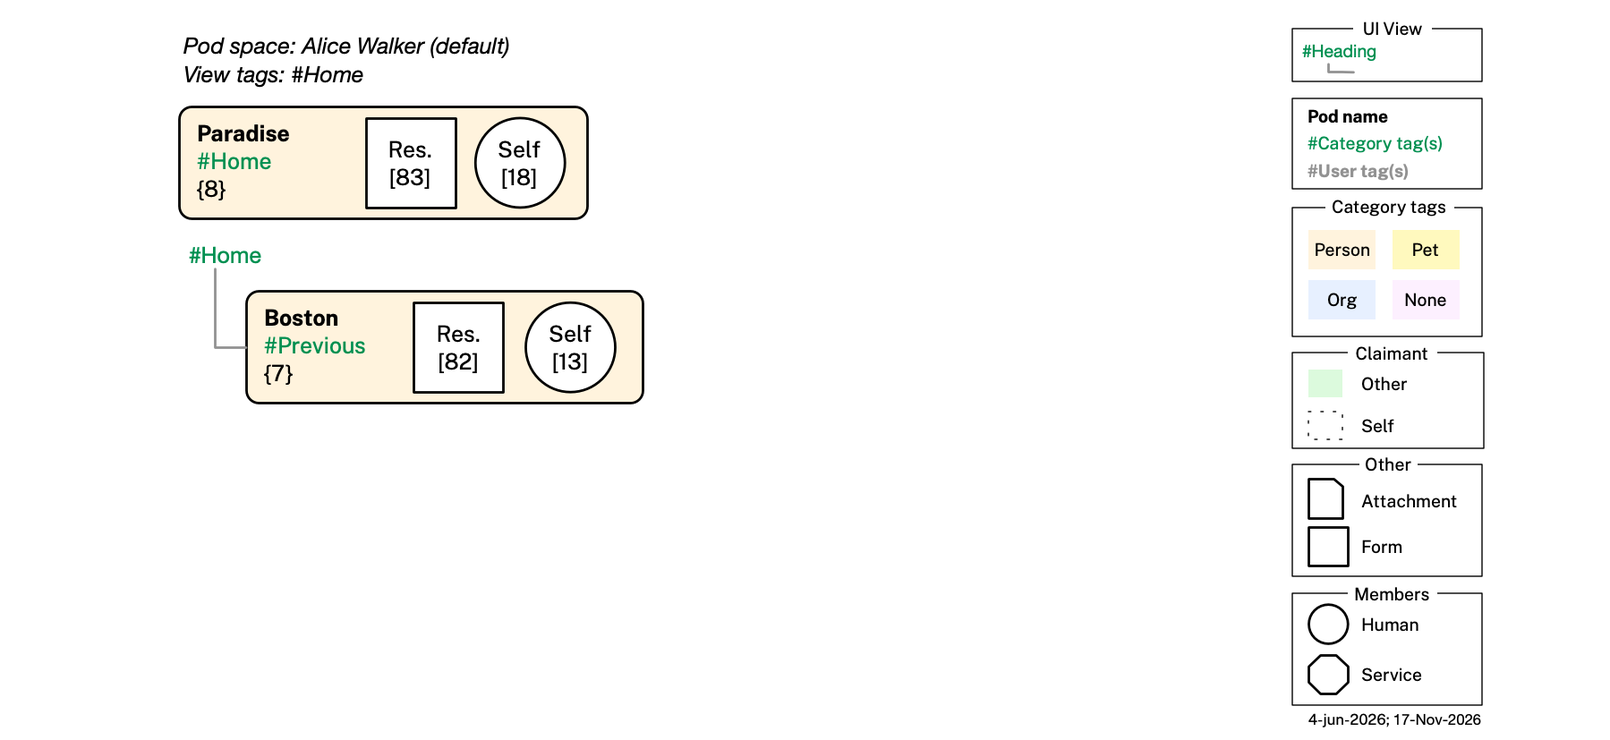
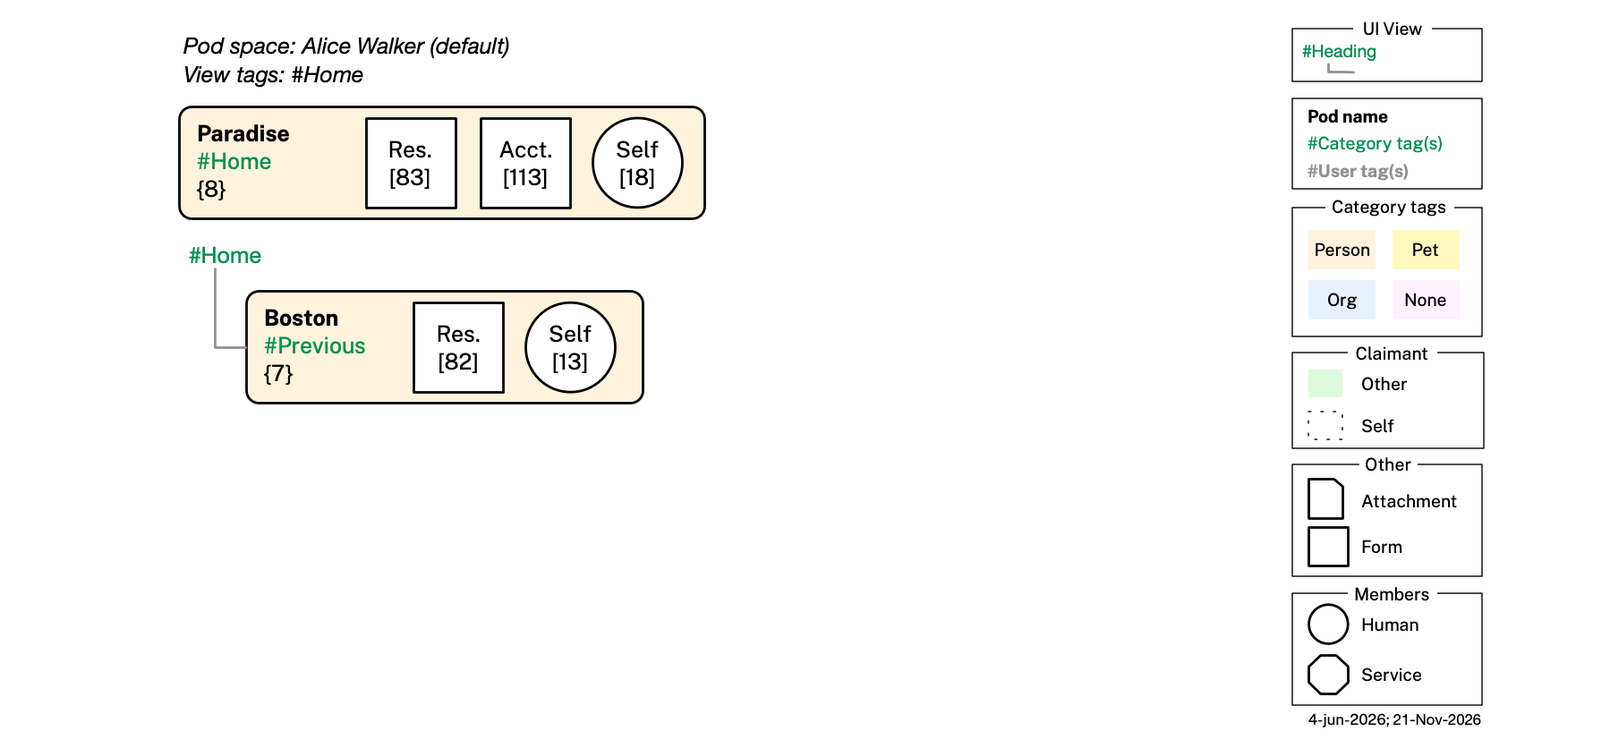
Add a second form to the Paradise pod; let TTL-4 skip hand-added tools
The Paradise pod gains a Service Account form Alice added by hand beside
the Residence form podcat:Home declares: graph 113, her PG&E utility
account, topic :Alice_PGE_Account. It is the example's first pod with
more than one form, and its derived subject is both topics together.

TTL-4 rejected it: on a pod whose template declares a tool, it held
every tool graph to the declared pod:formShape values. It now checks
only the declared tool (the one carrying a declared shape) and leaves
hand-added tools alone, as README and TTL-5 already said; a declared
tool with a wrong shape still surfaces as missing under TTL-5.

Documents graph 113 in example.md and CLAUDE.md, draws its diagram,
adds the Acct. [113] square to home.png, and updates YAML-4's note.
SKIP_DRAW because graphs 18 and 83 are unchanged; graph 113 was drawn
explicitly.

Changed region(s): [[0.2802, 0.1209, 0.4358, 0.3023]]

diff --git a/integrity.md b/integrity.md
@@ -754,7 +754,7 @@ print('All shape-declaring graphs assert a matching rdf:type.'
 
 If a violation is found: fix whichever side is wrong — either the `shape:` YAML value (if the graph's own asserted `rdf:type` is correct and `template:` names the wrong shape), or the body's `rdf:type` (if `template:` reflects the intended classification and the body was never updated to match).
 
-**TTL-4 — a `member` graph's `shape:` value, and a declared tool's graph's, must be among the shapes its category tags' templates declare**: TTL-3 only compares a graph's `shape:` value against its own body content — this check goes one level higher, comparing it against what the pod's category tags declare as authoritative. For every pod-databook under `example/pods/` (excluding `under-development/`), `tpod.categoryTag` is read as a list (zero or more values), and each tag is looked up by the reverse lookup `?tc pod:category X` (README's Lazy Instantiation pattern) among the `pod:TemplatePod` individuals of `pod-category-templates.ttl` and every category extension bundle under `pod-category-ext/`. A pod carrying no category tag is looked up instead against `ctpl:UserDefinedTemplatePod`, the one template carrying no `pod:category`, which is what such a pod takes its member baseline from. The templates reached are pooled: every `tpod.member`-list graph carrying a `shape:` value must have that value among the union of their `pod:memberShape` values; and, **only when at least one of them declares a tool**, every tool graph carrying a `shape:` value must be among the union of their declared tools' `pod:formShape` values — direct CURIE-set membership, since `pod:shape`'s range is `sh:NodeShape` (`pod.ttl`), the same range `pod:memberShape`/`pod:formShape` already carry, so no `sh:targetClass` resolution and no named exemptions are needed. A tool on a pod none of whose templates declares one is **not** checked against any shape at all: any pod may gain a tool no template declared, and the user picks that tool's shape themselves — from the app's full list of shapes — so no template has authority over it. A tag whose concept has no template contributes nothing — a defensive branch, not a live case, since TTL-6 and TTL-8's 39d guarantee every concept has one. This is not itself an OWL/SHACL-expressible constraint (same reasoning as YAML-4/YAML-6/YAML-7/YAML-8/TTL-3 — it requires dereferencing values across the template files, not just pod-databook YAML), so it's checked here instead. Run:
+**TTL-4 — a `member` graph's `shape:` value, and a declared tool's graph's, must be among the shapes its category tags' templates declare**: TTL-3 only compares a graph's `shape:` value against its own body content — this check goes one level higher, comparing it against what the pod's category tags declare as authoritative. For every pod-databook under `example/pods/` (excluding `under-development/`), `tpod.categoryTag` is read as a list (zero or more values), and each tag is looked up by the reverse lookup `?tc pod:category X` (README's Lazy Instantiation pattern) among the `pod:TemplatePod` individuals of `pod-category-templates.ttl` and every category extension bundle under `pod-category-ext/`. A pod carrying no category tag is looked up instead against `ctpl:UserDefinedTemplatePod`, the one template carrying no `pod:category`, which is what such a pod takes its member baseline from. The templates reached are pooled: every `tpod.member`-list graph carrying a `shape:` value must have that value among the union of their `pod:memberShape` values; and, for each tool that is **the declared one** — on a pod at least one of whose templates declares a tool, a tool any of whose graphs carries one of their declared tools' `pod:formShape` values — every graph beneath it carrying a `shape:` value must be among the union of those `pod:formShape` values — direct CURIE-set membership, since `pod:shape`'s range is `sh:NodeShape` (`pod.ttl`), the same range `pod:memberShape`/`pod:formShape` already carry, so no `sh:targetClass` resolution and no named exemptions are needed. Any other tool is one the user added by hand, and is **not** checked against any shape at all: any pod may gain tools no template declared, as many as the user likes, and the user picks each one's shape themselves — from the app's full list of shapes — so no template has authority over it. That covers both a tool on a pod none of whose templates declares one and a further tool beside the declared one (`Paradise.databook.md`'s Service Account form, beside the Residence form `podcat:Home` declares). A declared tool whose every graph carries a wrong shape is therefore read as hand-added and passes here, but then the declared tool is missing from the pod, which TTL-5 reports. A tag whose concept has no template contributes nothing — a defensive branch, not a live case, since TTL-6 and TTL-8's 39d guarantee every concept has one. This is not itself an OWL/SHACL-expressible constraint (same reasoning as YAML-4/YAML-6/YAML-7/YAML-8/TTL-3 — it requires dereferencing values across the template files, not just pod-databook YAML), so it's checked here instead. Run:
 
 ```python
 import glob, re, yaml
@@ -823,17 +823,23 @@ for path in sorted(glob.glob('example/pods/**/*.databook.md', recursive=True)):
     }
     declares_tool = any(r['declares_tool'] for r in reached)
 
+    def graphs(tool):
+        return [g for g in as_list(tool.get('graph')) if isinstance(g, dict)]
+
     def entries_for(field):
         if field == 'member':
             return [e for e in as_list(tpod.get('member')) if isinstance(e, dict)]
+        # Only the declared tool is checked: the one any of whose graphs carries
+        # a declared pod:formShape. Every other tool was added by hand — on a pod
+        # none of whose templates declares one, or beside the declared one — and
+        # the user picks its shape freely, so no template has a say.
+        if not declares_tool:
+            return []
         return [g for t in as_list(tpod.get('tool')) if isinstance(t, dict)
-                  for g in as_list(t.get('graph')) if isinstance(g, dict)]
+                  if any(sh in allowed['tool'] for g in graphs(t) for sh in as_list(g.get('shape')))
+                  for g in graphs(t)]
 
     for field in ('member', 'tool'):
-        # A tool on a pod none of whose templates declares one was added by
-        # hand — the user picks its shape freely, so no template has a say.
-        if field == 'tool' and not declares_tool:
-            continue
         prop = 'memberShape' if field == 'member' else 'formShape'
         for entry in entries_for(field):
             gid = entry.get('id')
@@ -1327,7 +1333,7 @@ If a malformed id is found, fix it to match the pattern. If a duplicate `<NN>` i
 
 Note: this check's `^id:\s*(\S+)` regex is anchored at true line-start with no leading whitespace, so it only ever matches a file's own top-level `id:` line — a nested, indented `tpod.member[]`/`tpod.tool[].graph[].id` value never matches this anchor and is intentionally out of scope here (a graph's `id` is not expected to relate to its owning pod file's name at all; see YAML-1 for that). This imposes a requirement on any script that writes `tpod.member`/`tpod.tool`: never emit an unindented `id:` at column 0.
 
-**YAML-4 — a pod's subject is derived from its tools plus `member`, never stored**: There is no independently-asserted pod-level subject property (nor a pod-level `tpod.subject` field — the `subject:` key sits inside each `tpod.member` entry, naming that member) — who or what a pod's relationship is about is computed, not stored, by a simple two-branch rule. The two branches read properties at *different levels*, since a tool states its topic once for all the graphs beneath it while a member entry carries its own subject directly (`pod.ttl`): a `member` entry is a `pod:MemberGraph` carrying `pod:subject`, while a tool's graphs are `pod:FormGraph`s carrying no about-ness of their own, the tool's single `pod:formTopic` standing for all of them. **If the pod has any form tools**, the full set of distinct `pod:formTopic` values among them is the pod's subject (e.g. `Appointment.databook.md`, a two-member pod: `member` holds Dave's and Self's graphs, and its one form tool is about Sophia — subject is `:Sophia_Walker`); **otherwise** the subject is the full set of distinct `pod:subject` values among `member` — the pod's own active members (e.g. `Bob Johnson.databook.md`, a two-member pod with no tool but its note: subject is `:Self` and `:Bob_Johnson` together; `Fred Flintstone.databook.md`, likewise: `:Self` and `:Fred_Flintstone` together). `Boston Hub Society.databook.md` shows the first branch taking over from the second: as a three-member pod it would derive `:BHS_Service`, `:Bob_Johnson`, and `:Self` together, but its one manually-added form tool — BHS's own organizational profile, claimed by BHS — narrows the derived subject to `:BHS` alone. Every real example pod carries at most one form tool, but the rule and this check both generalize to any number, a pod being free to hold as many tools as it likes. A tool's topic is explicitly **allowed** to duplicate a `member` subject — this is the normal shape for every template-declared form tool whose pod's `pod:member` content is just the generic `ContactInfoShape` contact-info stub (claimed by and about `:Self`) while the pod's real content lives in the tool, also about `:Self` (e.g. `Google.databook.md`, `SSN.databook.md`, `Paradise.databook.md`): the stub `member` isn't a distinct party the derived subject needs to separately surface, so the derivation switching to the tool set alone (ignoring `member`) is intended, not a masking bug. This check therefore only reports each pod's derived subject for reference — it does not flag member/tool subject overlap as a violation. Run:
+**YAML-4 — a pod's subject is derived from its tools plus `member`, never stored**: There is no independently-asserted pod-level subject property (nor a pod-level `tpod.subject` field — the `subject:` key sits inside each `tpod.member` entry, naming that member) — who or what a pod's relationship is about is computed, not stored, by a simple two-branch rule. The two branches read properties at *different levels*, since a tool states its topic once for all the graphs beneath it while a member entry carries its own subject directly (`pod.ttl`): a `member` entry is a `pod:MemberGraph` carrying `pod:subject`, while a tool's graphs are `pod:FormGraph`s carrying no about-ness of their own, the tool's single `pod:formTopic` standing for all of them. **If the pod has any form tools**, the full set of distinct `pod:formTopic` values among them is the pod's subject (e.g. `Appointment.databook.md`, a two-member pod: `member` holds Dave's and Self's graphs, and its one form tool is about Sophia — subject is `:Sophia_Walker`); **otherwise** the subject is the full set of distinct `pod:subject` values among `member` — the pod's own active members (e.g. `Bob Johnson.databook.md`, a two-member pod with no tool but its note: subject is `:Self` and `:Bob_Johnson` together; `Fred Flintstone.databook.md`, likewise: `:Self` and `:Fred_Flintstone` together). `Boston Hub Society.databook.md` shows the first branch taking over from the second: as a three-member pod it would derive `:BHS_Service`, `:Bob_Johnson`, and `:Self` together, but its one manually-added form tool — BHS's own organizational profile, claimed by BHS — narrows the derived subject to `:BHS` alone. `Paradise.databook.md` carries two form tools — its Residence form, about `:Self`, and a Service Account form added by hand, about `:Alice_PGE_Account` — so its derived subject is both topics together; the rule and this check generalize to any number, a pod being free to hold as many tools as it likes. A tool's topic is explicitly **allowed** to duplicate a `member` subject — this is the normal shape for every template-declared form tool whose pod's `pod:member` content is just the generic `ContactInfoShape` contact-info stub (claimed by and about `:Self`) while the pod's real content lives in the tool, also about `:Self` (e.g. `Google.databook.md`, `SSN.databook.md`, `Paradise.databook.md`): the stub `member` isn't a distinct party the derived subject needs to separately surface, so the derivation switching to the tool set alone (ignoring `member`) is intended, not a masking bug. This check therefore only reports each pod's derived subject for reference — it does not flag member/tool subject overlap as a violation. Run:
 
 ```python
 import re, yaml, glob

diff --git a/example.md b/example.md
@@ -147,6 +147,8 @@ Alice has a Social Security number (SSN) issued to her by the Social Security Ad
 
 Alice lived in Boston until August 2025 and now lives in Paradise, CA. Her *Paradise* pod is tagged `podcat:Home`, and her *Boston* pod `podcat:Previous`, a concept narrower than `podcat:Home`, so a search for `podcat:Home` finds both. Boston was tagged `podcat:Home` while she lived there, and adding that tag gave the pod the `residences:Residence` form tool `podcat:Home`'s template declares (see app-behavior.md's [Lazy Instantiation](app-behavior.md#lazy-instantiation)). When she moved she changed the tag to `podcat:Previous`, whose template declares no tool, and the pod kept its tool, since changing a tag never removes one. Both pods carry a form tool: each `pod:member` entry ([graph 13](<example/pods/Alice Walker (default)/Boston/Boston.databook.md#graph-13>), [graph 18](<example/pods/Alice Walker (default)/Paradise/Paradise.databook.md#graph-18>)) is the usual bare given-name stub, and each tool graph carries the actual `residences:Residence` — Boston's in [graph 82](<example/pods/Alice Walker (default)/Boston/Boston.databook.md#graph-82>), Paradise's in [graph 83](<example/pods/Alice Walker (default)/Paradise/Paradise.databook.md#graph-83>).
 
+The *Paradise* pod also carries a second form, the example's one pod with more than one. When Alice set up her gas and electric service in Paradise, she kept her PG&E account in the pod for the home it serves rather than in a pod of its own: she selected the pod, tapped **Add Tool**, and picked the Service Account form type, though `podcat:Home`'s template declares only the Residence form (see app-behavior.md's [Adding a Tool](app-behavior.md#adding-a-tool)). Its one graph ([graph 113](<example/pods/Alice Walker (default)/Paradise/Paradise.databook.md#graph-113>)) holds the account — service name, username, service URI and password — typed `sa:ServiceAccount` like her *Google* and *ATT* accounts. The two forms have different topics, the residence being about Alice herself and the new form about `:Alice_PGE_Account`, so the pod's derived subject is both together.
+
 <p align="center"><img src="example/images/home.png" alt="Home pods"></p>
 
 ### Possessions (Things)
@@ -276,7 +278,7 @@ A summary of all thirty-three pods under `example/pods/`, grouped by the subsect
 | Passport and Social Security Number | Passport | [Passport.databook.md](<example/pods/Alice Walker (default)/Passport/Passport.databook.md>) {5} | Self | `podcat:Passport` | — | — | 19, 81 |
 | Passport and Social Security Number | SSN | [SSN.databook.md](<example/pods/Alice Walker (default)/SSN/SSN.databook.md>) {6} | Self | `podcat:SSN` | — | — | 23, 80 |
 | Current and Previous Homes | Boston | [Boston.databook.md](<example/pods/Alice Walker (default)/Boston/Boston.databook.md>) {7} | Self | `podcat:Previous` | — | — | 13, 82 |
-| Current and Previous Homes | Paradise | [Paradise.databook.md](<example/pods/Alice Walker (default)/Paradise/Paradise.databook.md>) {8} | Self | `podcat:Home` | — | — | 18, 83 |
+| Current and Previous Homes | Paradise | [Paradise.databook.md](<example/pods/Alice Walker (default)/Paradise/Paradise.databook.md>) {8} | Self, Alice's PG&E Account | `podcat:Home` | — | — | 18, 83, 113 |
 | Possessions (Things) | Things | [Things.databook.md](<example/pods/Alice Walker (default)/Things/Things.databook.md>) {11} | Self | `podcat:Things` | — | — | 22 |
 | Pod Spaces | Marcus Bell | [Marcus Bell.databook.md](<example/pods/Alice Walker (default)/Marcus Bell/Marcus Bell.databook.md>) {56} | Marcus Bell | `podcat:PrimaryCarePhysician` | — | — | 109, 110 |
 | Pod Spaces | Ruth Alvarez | [Ruth Alvarez.databook.md](<example/pods/Paula Walker/Ruth Alvarez/Ruth Alvarez.databook.md>) {57} | Ruth Alvarez | `podcat:PrimaryCarePhysician` | Paula Walker | — | 111, 112 |
@@ -343,7 +345,7 @@ The following table lists graphs that are *about* Alice but claimed by others.
 | 8  | [Bob Johnson.databook.md](<example/pods/Alice Walker (default)/Bob Johnson/Bob Johnson.databook.md#graph-08>) {16}                         | `podcat:Others`            | Alice as seen by Bob                 | [view](example/graphs/images/graph-08.png)|
 | 76 | [Citibank.databook.md](<example/pods/Alice Walker (default)/Citibank/Citibank.databook.md#graph-76>) {4} | `podcat:BankingPayments` | Citibank's own claimed record about Alice, transmitted from its PDN node — VISA debit card, linked checking account, and online service account; claimed by `:Citibank`, the organization, not by the `s:ServiceProvider` that carries its membership | [view](example/graphs/images/graph-76.png) |
 
-The following table lists graphs about anyone or anything else in Alice's pods: other people (Sophia, Dave, Paula, Bob, Fred, Jane, Marcy, and Henry), organizations (the Boston Hub Society, the Chestnut Hill Village Association, Acme, and Citibank), services (Arca's backup service, and the PRIVO and Facenook websites), and things (Ginger, her car, her online accounts, and the Kyoto trip). As above, each "Pod DataBook" link jumps to that graph's section inside its owning pod-databook file.
+The following table lists graphs about anyone or anything else in Alice's pods: other people (Sophia, Dave, Paula, Bob, Fred, Jane, Marcy, and Henry), organizations (the Boston Hub Society, the Chestnut Hill Village Association, Acme, and Citibank), services (Arca's backup service, and the PRIVO and Facenook websites), and things (Ginger, her car, her online and utility accounts, and the Kyoto trip). As above, each "Pod DataBook" link jumps to that graph's section inside its owning pod-databook file.
 
 | #  | Pod DataBook                                                                                     | Category Tag | Key data                                                         | Diagram |
 |--- |:-------------------------------------------------------------------------------------------------|:-------------|:-----------------------------------------------------------------|:--------|
@@ -386,6 +388,7 @@ The following table lists graphs about anyone or anything else in Alice's pods: 
 | 108 | [Honda.databook.md](<example/pods/Paula Walker/Honda/Honda.databook.md#graph-108>) {55} | `podcat:Vehicles` | Alice's record of her mother Paula's car — a 2015 Honda Fit, typed `v:Vehicle`; the pod's form-tool graph, `formTopic: ":Paula_Honda"`, in Alice's pod space for Paula | [view](example/graphs/images/graph-108.png) |
 | 110 | [Marcus Bell.databook.md](<example/pods/Alice Walker (default)/Marcus Bell/Marcus Bell.databook.md#graph-110>) {56} | `podcat:PrimaryCarePhysician` | Alice's record of Dr. Marcus Bell, her own primary care physician — name and specialty (Internal Medicine); the pod's form-tool graph, in her default space | [view](example/graphs/images/graph-110.png) |
 | 112 | [Ruth Alvarez.databook.md](<example/pods/Paula Walker/Ruth Alvarez/Ruth Alvarez.databook.md#graph-112>) {57} | `podcat:PrimaryCarePhysician` | Alice's record of Dr. Ruth Alvarez, her mother Paula's primary care physician — name and specialty (Geriatrics); the pod's form-tool graph, in her space for Paula | [view](example/graphs/images/graph-112.png) |
+| 113 | [Paradise.databook.md](<example/pods/Alice Walker (default)/Paradise/Paradise.databook.md#graph-113>) {8} | `podcat:Home` | Alice's basic claim about her PG&E utility account — service name, username, service URI, and password, typed `sa:ServiceAccount`; the pod's second form tool, added by hand beside the Residence form `podcat:Home` declares, its `formTopic: ":Alice_PGE_Account"` joining `:Self` in the pod's derived subject | [view](example/graphs/images/graph-113.png) |
 
 ## Diagrams
 

diff --git a/example/pods/Alice Walker (default)/Paradise/Paradise.databook.md b/example/pods/Alice Walker (default)/Paradise/Paradise.databook.md
@@ -2,12 +2,15 @@
 id: http://www.example.org/tpod/pods/pod-08
 title: "Paradise"
 type: pod-databook
-version: 2.1.0
+version: 2.2.0
 created: 2026-07-10
 description: >
   Pod DataBook for the "Paradise" pod (category tag: podcat:Home). It is a one-member pod with one
-  member entry about :Self and one tool graph about :Self (the pod's subject), typed
-  residences:Residence, carrying Alice's current Paradise address.
+  member entry about :Self and two form tools. The first, declared by podcat:Home's template, holds
+  one graph about :Self, typed residences:Residence, carrying Alice's current Paradise address. The
+  second, added by hand, holds one graph about :Alice_PGE_Account, typed
+  serviceaccounts:ServiceAccount, carrying her PG&E utility account. The pod's derived subject is
+  both topics together.
 tpod:
   categoryTag:
     - "podcat:Home"
@@ -26,6 +29,13 @@ tpod:
         - id: "http://www.example.org/tpod/graphs/graph-83"
           claimant: ":Self"
           shape: "residenceshapes:ResidenceShape"
+    - id: "http://www.example.org/tpod/tools/tool-40"
+      type: "form"
+      formTopic: ":Alice_PGE_Account"
+      graph:
+        - id: "http://www.example.org/tpod/graphs/graph-113"
+          claimant: ":Self"
+          shape: "sashapes:ServiceAccountShape"
 ---
 
 ## Graphs
@@ -120,4 +130,40 @@ This graph captures Alice Walker's current residential address: 123 Sleepy Hollo
         rdf:type cco:ent00000014 ;
         <https://w3id.org/cco-domains/cco/ont00001765> "USA"
     ] .
+```
+
+<a id="graph-113"></a>
+### Graph 113
+
+#### Overview
+
+This graph captures Alice's account with PG&E, the gas and electric utility serving her Paradise home — this pod's second form tool's content. `podcat:Home`'s template declares only the Residence form (graph 83), so Alice added this one by hand with **Add Tool**, picking the Service Account form type; the app stamped its `pod:shape` as `sashapes:ServiceAccountShape` from her pick. Its tool's `formTopic` is `:Alice_PGE_Account`, so the pod's derived subject is `:Self` and `:Alice_PGE_Account` together (see YAML-4). The account is typed `serviceaccounts:ServiceAccount` and multi-typed `cco:ent00000033` (Online Service Account): service name, username, service URI, and password. `:Self` carries `cco:ent00000045` (holds user account) to it. Alice is the claimant.
+
+#### Graph
+
+```turtle
+<!-- databook:id: alice-paradise-utility-graph -->
+<!-- databook:graph: http://www.example.org/tpod/graphs/graph-113#graph -->
+@prefix : <http://www.example.org/tpod#> .
+@prefix persona: <http://mee.foundation/ontologies/persona#> .
+@prefix cco: <https://w3id.org/cco-domains/cco/> .
+@prefix owl: <http://www.w3.org/2002/07/owl#> .
+@prefix rdf: <http://www.w3.org/1999/02/22-rdf-syntax-ns#> .
+@prefix rdfs: <http://www.w3.org/2000/01/rdf-schema#> .
+@prefix xsd: <http://www.w3.org/2001/XMLSchema#> .
+@prefix serviceaccounts: <http://mee.foundation/ontologies/service-accounts#> .
+
+:Self rdf:type owl:NamedIndividual ,
+               persona:Person .
+
+:Alice_PGE_Account rdf:type owl:NamedIndividual ,
+                     serviceaccounts:ServiceAccount ,
+                     cco:ent00000033 ;
+    rdfs:label "Alice Walker's PG&E account"@en ;
+    cco:ent00000034 "PG&E" ;                                   # has service name
+    cco:ent00000035 "alice.walker.paradise" ;                  # has user handle (username)
+    cco:ent00000036 "https://www.pge.com/myaccount/"^^xsd:anyURI ;  # has service URI
+    serviceaccounts:hasPassword "Sl33py#Hollow2025" .          # has password
+
+:Self <https://w3id.org/cco-domains/cco/ent00000045> :Alice_PGE_Account .  # holds user account
 ```

diff --git a/CLAUDE.md b/CLAUDE.md
@@ -96,6 +96,7 @@ Every graph below is an embedded section (a `tpod.member`/`tpod.tool[].graph` en
 | Graph 78 — `example/pods/Alice Walker (default)/Birth Certificate/Birth Certificate.databook.md` | Alice's Texas birth certificate — legal names, maiden name; the pod's tool graph, typed `identitydocuments:BirthCertificate` |
 | Graph 18 — `example/pods/Alice Walker (default)/Paradise/Paradise.databook.md` | The Paradise pod's required `member` entry, claimed by Alice — carries her given name (required by `ContactInfoShape`, the template's `pod:memberShape`) |
 | Graph 83 — `example/pods/Alice Walker (default)/Paradise/Paradise.databook.md` | Alice's Paradise, CA address — current residence (2025–present); the pod's tool graph, typed `residences:Residence` |
+| Graph 113 — `example/pods/Alice Walker (default)/Paradise/Paradise.databook.md` | Alice's PG&E utility account — service name, username, service URI, and password; the Paradise pod's second form tool, added by hand beside the Residence form `podcat:Home` declares, typed `serviceaccounts:ServiceAccount`, its `formTopic: ":Alice_PGE_Account"` making the pod's derived subject `:Self` and `:Alice_PGE_Account` together — the example's one pod with two form tools |
 | Graph 13 — `example/pods/Alice Walker (default)/Boston/Boston.databook.md` | The Boston pod's required `member` entry, claimed by Alice — carries her given name (required by `ContactInfoShape`, the template's `pod:memberShape`) |
 | Graph 82 — `example/pods/Alice Walker (default)/Boston/Boston.databook.md` | Alice's Boston, MA address — previous residence (2020–2025); the pod's tool graph, typed `residences:Residence` |
 | Graph 23 — `example/pods/Alice Walker (default)/SSN/SSN.databook.md` | The SSN pod's required `member` entry, claimed by Alice — carries her given name (required by `ContactInfoShape`, the template's `pod:memberShape`) |
